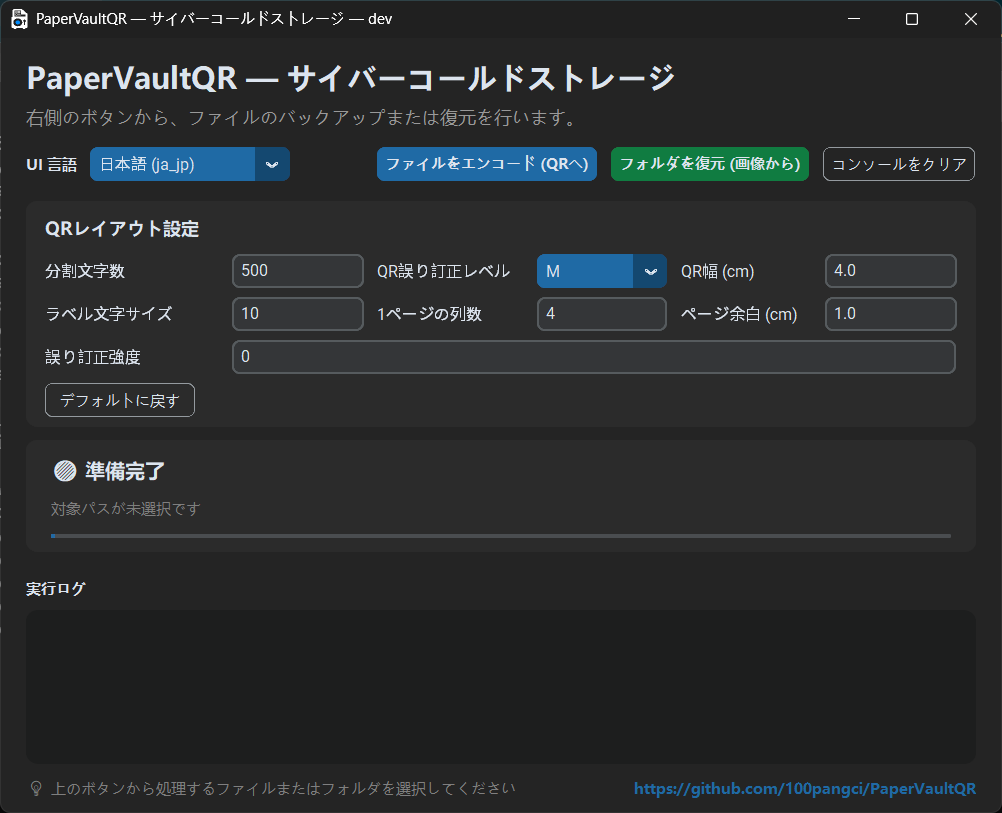
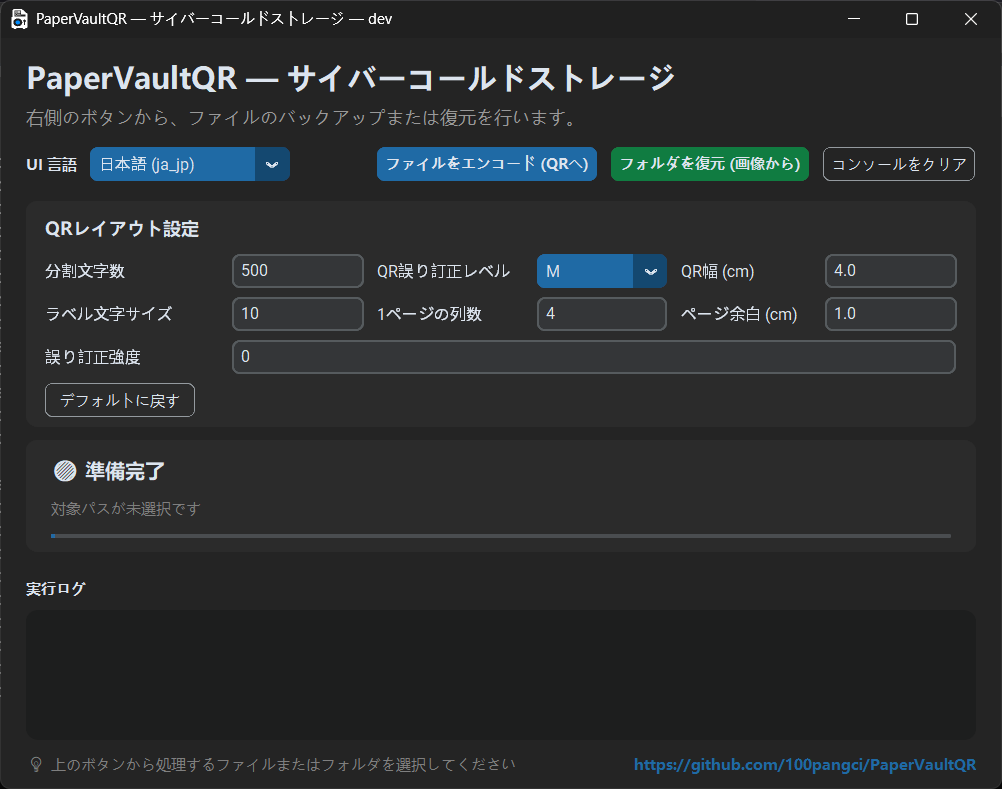
docs:添加俄语文档，更新图片

diff --git a/README.ru.md b/README.ru.md
@@ -1,0 +1,179 @@
+# PaperVaultQR
+
+PaperVaultQR разбивает текстовые файлы на несколько QR-кодов, генерирует документ Word для печати и восстанавливает исходное содержимое из папки отсканированных QR-изображений. Предназначен для офлайн-бумажного резервного копирования зашифрованных данных с высокой энтропией.
+
+## 📷 Скриншоты
+
+Скриншоты интерфейса находятся в папке `Picture`:
+
+- Русский интерфейс: `Picture/PaperVaultQR_ru_ru.png`
+
+![PaperVaultQR Русский GUI](Picture/PaperVaultQR_ru_ru.png)
+
+## 🖼️ Логотип
+
+- Светлая тема / тёмный текст: `Picture/LOGO_dark_white.png`
+- Тёмная тема / светлый текст: `Picture/LOGO_white_dark.png`
+
+<table>
+  <tr>
+    <td align="center">
+      <img src="Picture/LOGO_dark_white.png" alt="PaperVaultQR logo (светлый фон)" width="200" />
+    </td>
+    <td align="center">
+      <img src="Picture/LOGO_white_dark.png" alt="PaperVaultQR logo (тёмный фон)" width="200" />
+    </td>
+  </tr>
+</table>
+
+## 🌟 Возможности
+
+- Разбивка входных файлов на фрагменты по `500` символов в виде QR-кодов
+- Автоматическое преобразование файлов не в UTF-8 в `base64` перед кодированием и восстановление при декодировании
+- Генерация документа Word для печати с форматом A4, полями `1.0 см` и макетом таблицы на `4` колонки
+- Сохранение исходного имени файла в последовательности QR-кодов для восстановления с учётом имени файла
+- Декодирование изображений `png`, `jpg` и `jpeg` из отсканированной папки в порядке имён файлов и восстановление текста или двоичных данных
+- Поддержка как графического интерфейса (GUI), так и командной строки (CLI), с `auto` и всеми встроенными локалями
+- Межблочная коррекция ошибок Рида-Соломона — добавление избыточных QR-блоков для восстановления при потере или повреждении сканов (задаётся 0–100% в GUI; 0 = отключено)
+
+## 📌 Примечания
+
+- Ввод в UTF-8 использует прямое нарезание текста и кодирование в QR.
+- Файлы не в UTF-8 сначала преобразуются в `base64`, затем нарезаются по той же схеме.
+- QR-коды используют уровень коррекции ошибок `M` для повышения распознавания при лёгких повреждениях, пятнах или сгибах.
+- Выходные файлы используют локализованные суффиксы, такие как `_ColdStorage`, `_冷存储` и `_コールドストレージ`.
+- Восстановленные файлы сохраняются в родительской директории папки сканирования; если исходное имя файла обнаружено, оно сохраняется с суффиксом восстановления.
+- Данный инструмент предназначен для уже зашифрованного содержимого, например экспортированных хранилищ Bitwarden, зашифрованных seed-фраз кошельков или GPG/PGP-шифротекста.
+
+## 📂 Файлы
+
+- `src/core/auto_split_qr.py`: кодирование текстового/двоичного ввода в QR-коды и генерация страниц Word для печати
+- `src/core/scanner_decoder.py`: декодирование отсканированных папок с изображениями и восстановление исходного текста или байтов
+- `src/gui.py`: графический интерфейс для выбора файлов или папок для кодирования/декодирования
+- `build_gui_exe.bat`: вспомогательный скрипт для сборки GUI-исполняемого файла под Windows
+- `build_gui_linux.sh`: вспомогательный скрипт для сборки GUI-исполняемого файла под Linux
+- `.github/workflows/build-linux.yml`: рабочий процесс GitHub Actions для сборки под Linux
+
+## ⚙️ Требования
+
+Установите необходимые пакеты Python:
+
+```bash
+pip install segno python-docx pillow pyzbar customtkinter numpy reedsolo
+```
+
+> Примечание: `pyzbar` требует системную библиотеку `zbar` на Linux (например, `sudo apt-get install libzbar0`).
+>
+> Примечание: также установите `pyinstaller`, если требуется локальная сборка GUI.
+
+## 🔨 Сборка
+
+### Windows
+
+```bash
+build_gui_exe.bat
+```
+
+### Linux
+
+```bash
+chmod +x build_gui_linux.sh
+./build_gui_linux.sh
+```
+
+### GitHub Actions
+
+Отправка тега `v*` или ручной запуск `workflow_dispatch` запускает сборку артефакта для Linux и публикует его в `release/`.
+
+## 🚀 Использование
+
+### 1. Генерация страниц QR-кодов для печати
+
+```bash
+python src/core/auto_split_qr.py path/to/input.txt
+```
+
+- Можно передать несколько файлов одновременно.
+- Вывод сохраняется рядом с входным файлом, с добавлением локализованного суффикса к имени файла.
+- Примеры: `input_ColdStorage.docx`, `input_冷存储.docx`, `input_コールドストレージ.docx`.
+
+### 2. Восстановление отсканированного содержимого
+
+```bash
+python src/core/scanner_decoder.py path/to/scanned_images_folder
+```
+
+- По умолчанию используется папка `scanned_pages`, если путь не указан.
+- Читает файлы `png`, `jpg` и `jpeg` из целевой директории.
+- Восстановленный вывод сохраняется в родительской директории папки сканирования.
+- Если исходное имя файла обнаружено, восстановленный файл сохраняет его; в противном случае используется имя папки.
+- Если содержимое было преобразовано в `base64`, оно автоматически восстанавливается в исходные байты.
+
+### 3. Запуск графического интерфейса
+
+```bash
+python src/gui.py
+```
+
+GUI поддерживает:
+
+- выбор одного или нескольких файлов для кодирования
+- выбор папки для декодирования
+- `auto` и встроенные локали
+- редактирование **настроек макета QR** перед кодированием:
+  - **Размер фрагмента**
+  - **Уровень ошибки QR** (выпадающий список: `L` / `M` / `Q` / `H`)
+  - **Межблочная коррекция ошибок** (ввод 0–100; 0 = отключено)
+  - **Ширина QR (см)**
+  - **Размер шрифта метки**
+  - **Колонок на странице**
+  - **Поля страницы (см)**
+- нажмите **Восстановить по умолчанию**, чтобы сбросить все значения к заводским настройкам
+
+### 4. Языковые параметры
+
+CLI принимает коды локалей, такие как `zh_cn`, `en_us`, `ja_jp`, `ru_ru` и `ko_kr`; `auto` включает автоматическое определение.
+
+```bash
+python src/core/auto_split_qr.py --lang zh_cn path/to/input.txt
+python src/core/auto_split_qr.py --lang en_us path/to/input.txt
+python src/core/auto_split_qr.py --lang ja_jp path/to/input.txt
+python src/core/auto_split_qr.py --lang ru_ru path/to/input.txt
+python src/core/auto_split_qr.py --lang auto path/to/input.txt
+```
+
+```bash
+python src/core/scanner_decoder.py --lang zh_cn path/to/scanned_images_folder
+python src/core/scanner_decoder.py --lang en_us path/to/scanned_images_folder
+python src/core/scanner_decoder.py --lang ja_jp path/to/scanned_images_folder
+python src/core/scanner_decoder.py --lang ru_ru path/to/scanned_images_folder
+python src/core/scanner_decoder.py --lang auto path/to/scanned_images_folder
+```
+
+## 📄 Параметры по умолчанию
+
+- Символов на фрагмент: `500`
+- Уровень коррекции ошибок QR: `M`
+- Межблочная RS-коррекция: `0` (отключено)
+- Поля страницы: `1.0 см`
+- Размер страницы: `A4`
+- Макет: `4` колонки, Word автоматически переносит строки на следующие страницы
+- В режиме GUI эти параметры можно изменить перед кодированием, а **Восстановить по умолчанию** сбрасывает их к встроенным значениям выше
+
+## 🔧 Рекомендации по сканированию
+
+- Используйте `300 DPI` или `600 DPI` при сканировании
+- Предпочитайте режим оттенков серого или чёрно-белый
+- Сохраняйте QR-код полностью, избегайте обрезки краёв
+- Если один QR-код не распознаётся, обрежьте этот один нечитаемый QR-код и попробуйте снова
+
+## 🧪 Результаты тестирования
+
+- Проверено с полезной нагрузкой `313 КБ`, закодированной в `642` QR-кода.
+- После печати и сканирования по порядку только `2` QR-кода не удалось декодировать; проблемные были сохранены как отдельные скриншоты в той же папке.
+
+## ⚠️ Советы по безопасности
+
+- Отпечатки струйного принтера не водостойки; используйте герметичные конверты или ламинирование.
+- Бумажные резервные копии должны содержать только зашифрованные данные; незашифрованное содержимое всё ещё можно прочитать.
+- Храните исходный секрет расшифровки в безопасности; восстановление невозможно без него, даже если QR-страницы остаются целыми.

diff --git a/README.md b/README.md
@@ -1,6 +1,6 @@
 # PaperVaultQR
 
-> 中文文档 [README.zh.md](README.zh.md) | 日本語 [README.jp.md](README.jp.md) | 조선어 (주체혁명판) [README.ko_kp.md](README.ko_kp.md) 
+> 中文文档 [README.zh.md](README.zh.md) | 日本語 [README.jp.md](README.jp.md) | 조선어 (주체혁명판) [README.ko_kp.md](README.ko_kp.md) | Русский [README.ru.md](README.ru.md)
 
 PaperVaultQR splits text files into multiple QR codes, generates a printable Word document, and restores the original content from a folder of scanned QR images. It is designed for offline paper backups of high-entropy encrypted data.
 